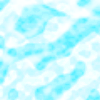
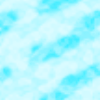
(snow ground): ground & daynight visual

diff --git a/Development/Cold/Assets/Scripts/GameCore.cs b/Development/Cold/Assets/Scripts/GameCore.cs
@@ -19,6 +19,9 @@ namespace Cold
         [SerializeField] int dayPeriod = 60;
         [Range(0f,1f)][SerializeField] float dayNightRate = 0.2f;
         [SerializeField] UnityEngine.UI.Text timerText = null;
+        [SerializeField] SpriteRenderer RenderGround;
+        [SerializeField] Color dayColor = new Color(1f, 1f, 1f, 1f);
+        [SerializeField] Color nightColor = new Color(0.3f, 0.3f, 0.3f, 1f);
         public GameObject fireHeap = null;
         #endregion
         public static GameCore I { get; private set; }
@@ -52,27 +55,38 @@ namespace Cold
         void Update()
         {
             CurrentGameTimeElapse = CurrentGameTimeElapse + Time.deltaTime;
-            timerText.text = string.Format("{0:t}", System.TimeSpan.FromSeconds(Mathf.FloorToInt(CurrentGameTimeElapse)));
+            timerText.text = string.Format("{0:t}{1}", 
+                System.TimeSpan.FromSeconds(Mathf.FloorToInt(CurrentGameTimeElapse)),
+                IsNight()?"(Night)":"(Day)"
+            );
             if (Input.GetKeyDown(KeyCode.Escape))
             {
                 exitMenu.gameObject.SetActive(true);
                 Time.timeScale = 0;
             }
             
-            if (IsNight()
-            && enemyList.Count < enemyGenLimit)
+            if (IsNight())
             {
-                enemyGenTimer += Time.deltaTime * enemyGenRate;
-                while (enemyGenTimer > 1f)
+                RenderGround.color = Color.Lerp(RenderGround.color, nightColor, Time.deltaTime*0.3f);
+                
+                if(enemyList.Count < enemyGenLimit)
                 {
-                    enemyGenTimer -= 1f;
-                    var pos = RandomPlaceCircle(1, 5f);
-                    var enemyObj = Instantiate(pfEnemy, pos, Quaternion.identity);
-                    enemyObj.SetParent(sceneRoot);
-                    var enemy = enemyObj.GetComponent<EnemyState>();
-                    enemy.EventDead += DestoryPawn;
-                    enemyList.Add(enemy);
+                    enemyGenTimer += Time.deltaTime * enemyGenRate;
+                    while (enemyGenTimer > 1f)
+                    {
+                        enemyGenTimer -= 1f;
+                        var pos = RandomPlaceCircle(1, 5f);
+                        var enemyObj = Instantiate(pfEnemy, pos, Quaternion.identity);
+                        enemyObj.SetParent(sceneRoot);
+                        var enemy = enemyObj.GetComponent<EnemyState>();
+                        enemy.EventDead += DestoryPawn;
+                        enemyList.Add(enemy);
+                    }
                 }
+            }
+            else
+            {
+                RenderGround.color = Color.Lerp(RenderGround.color, dayColor, Time.deltaTime*0.3f);
             }
         }
         bool IsNight(){
